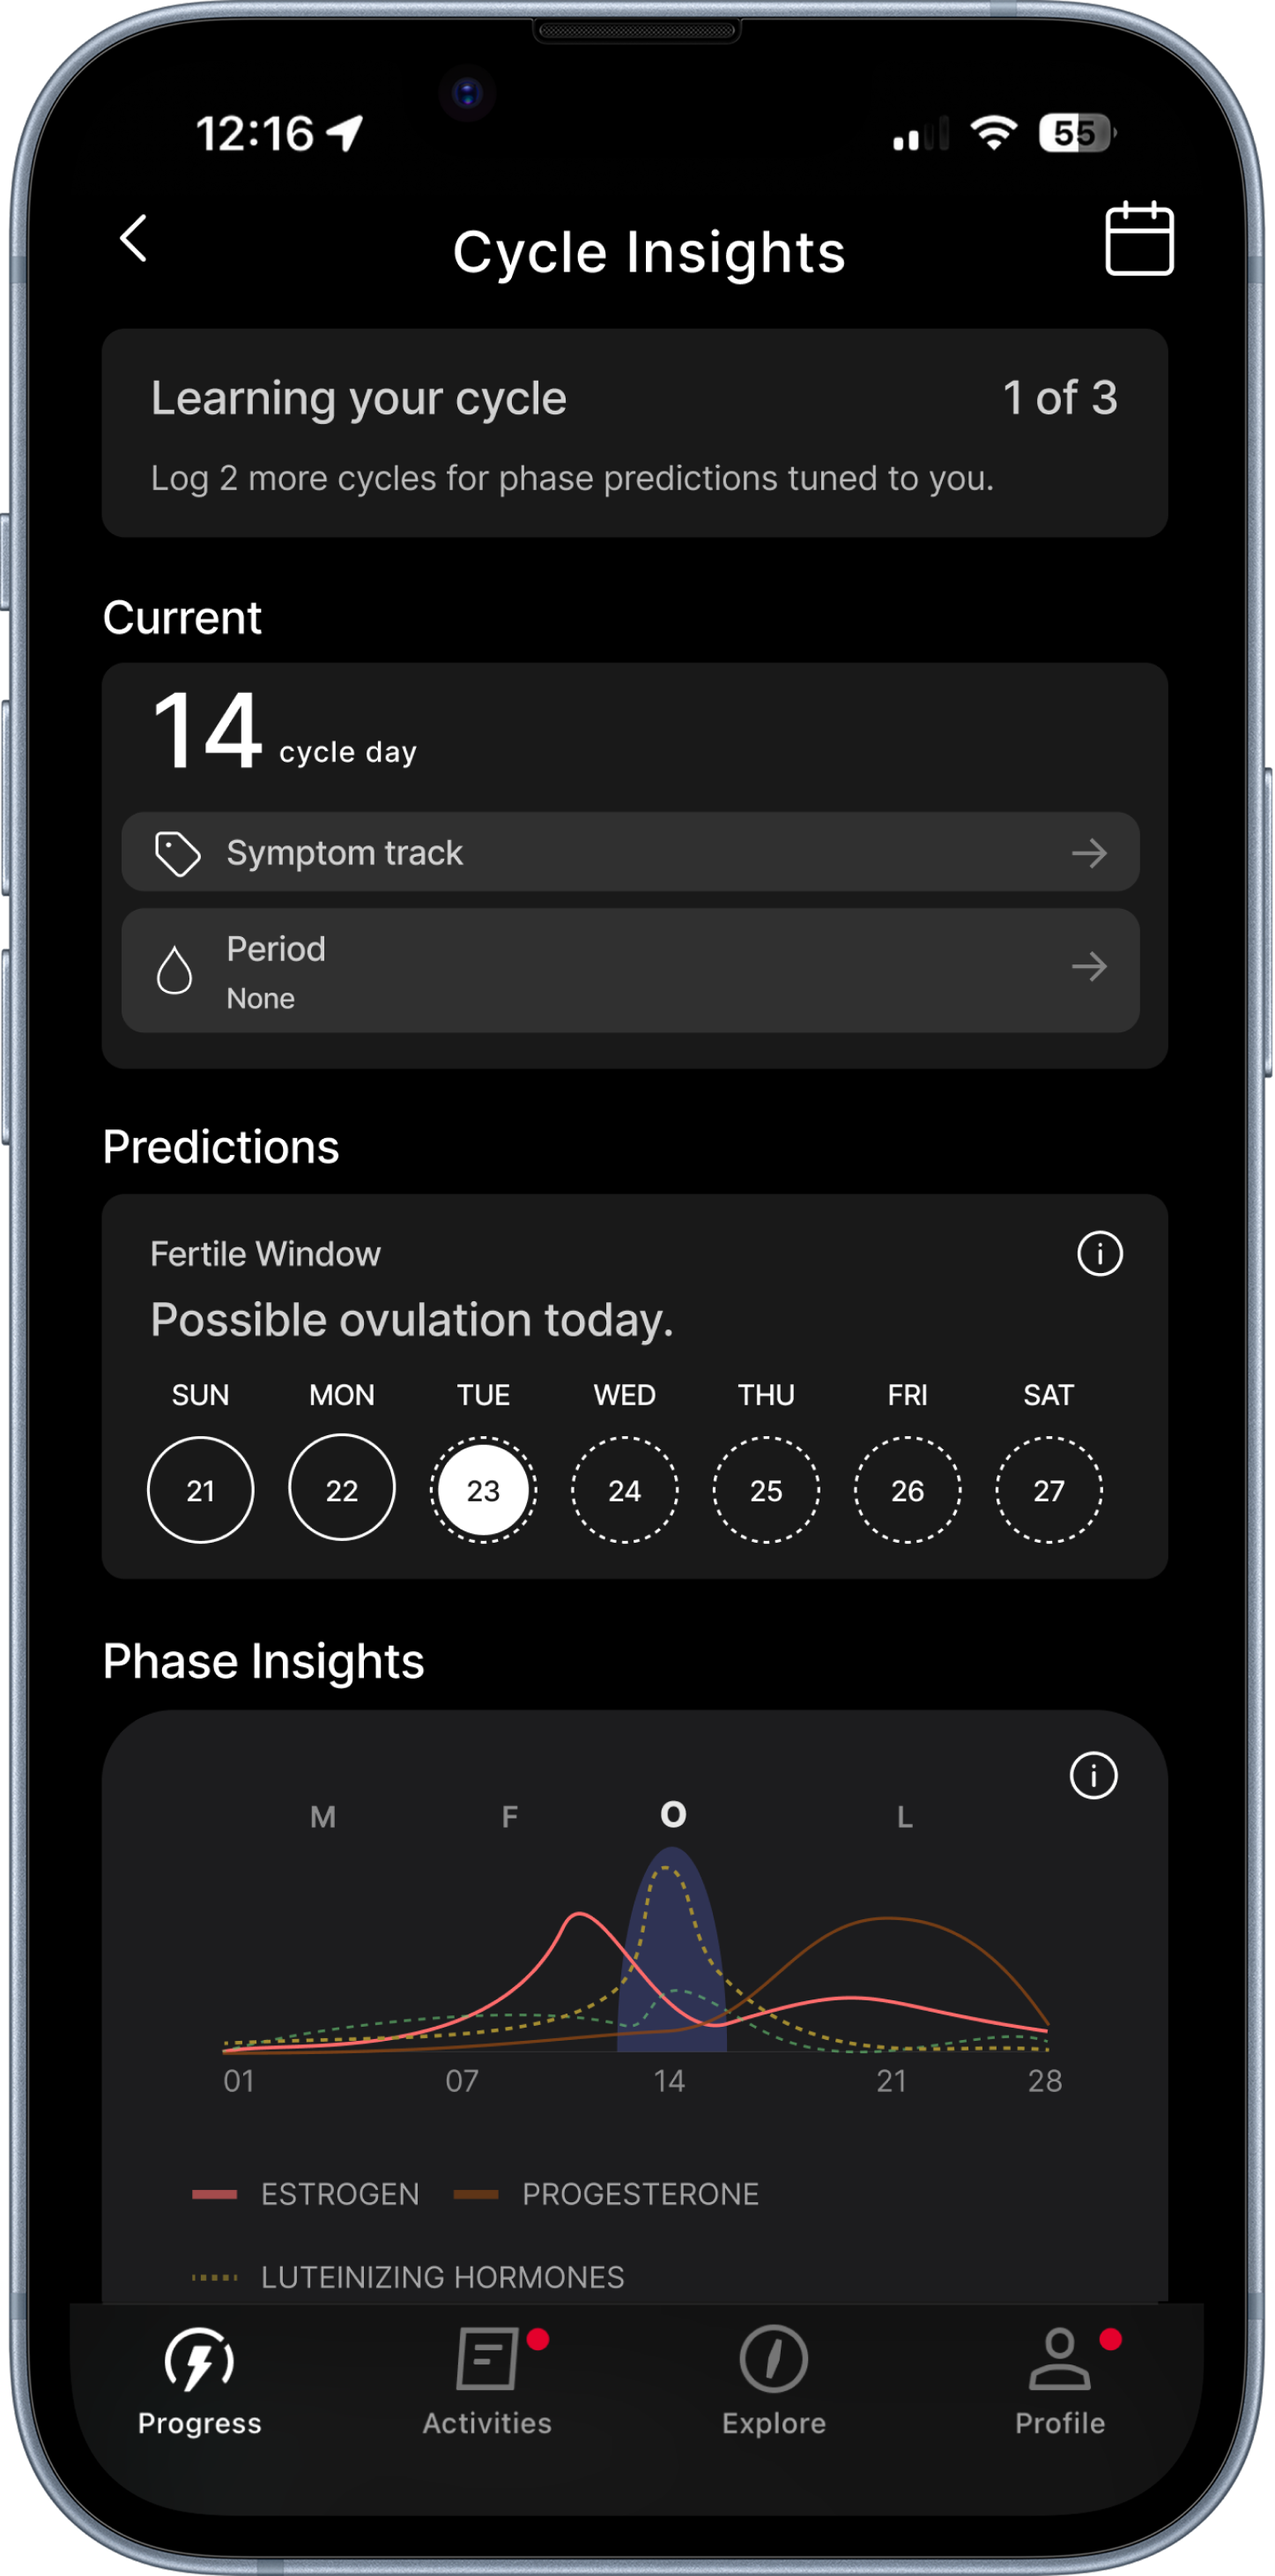
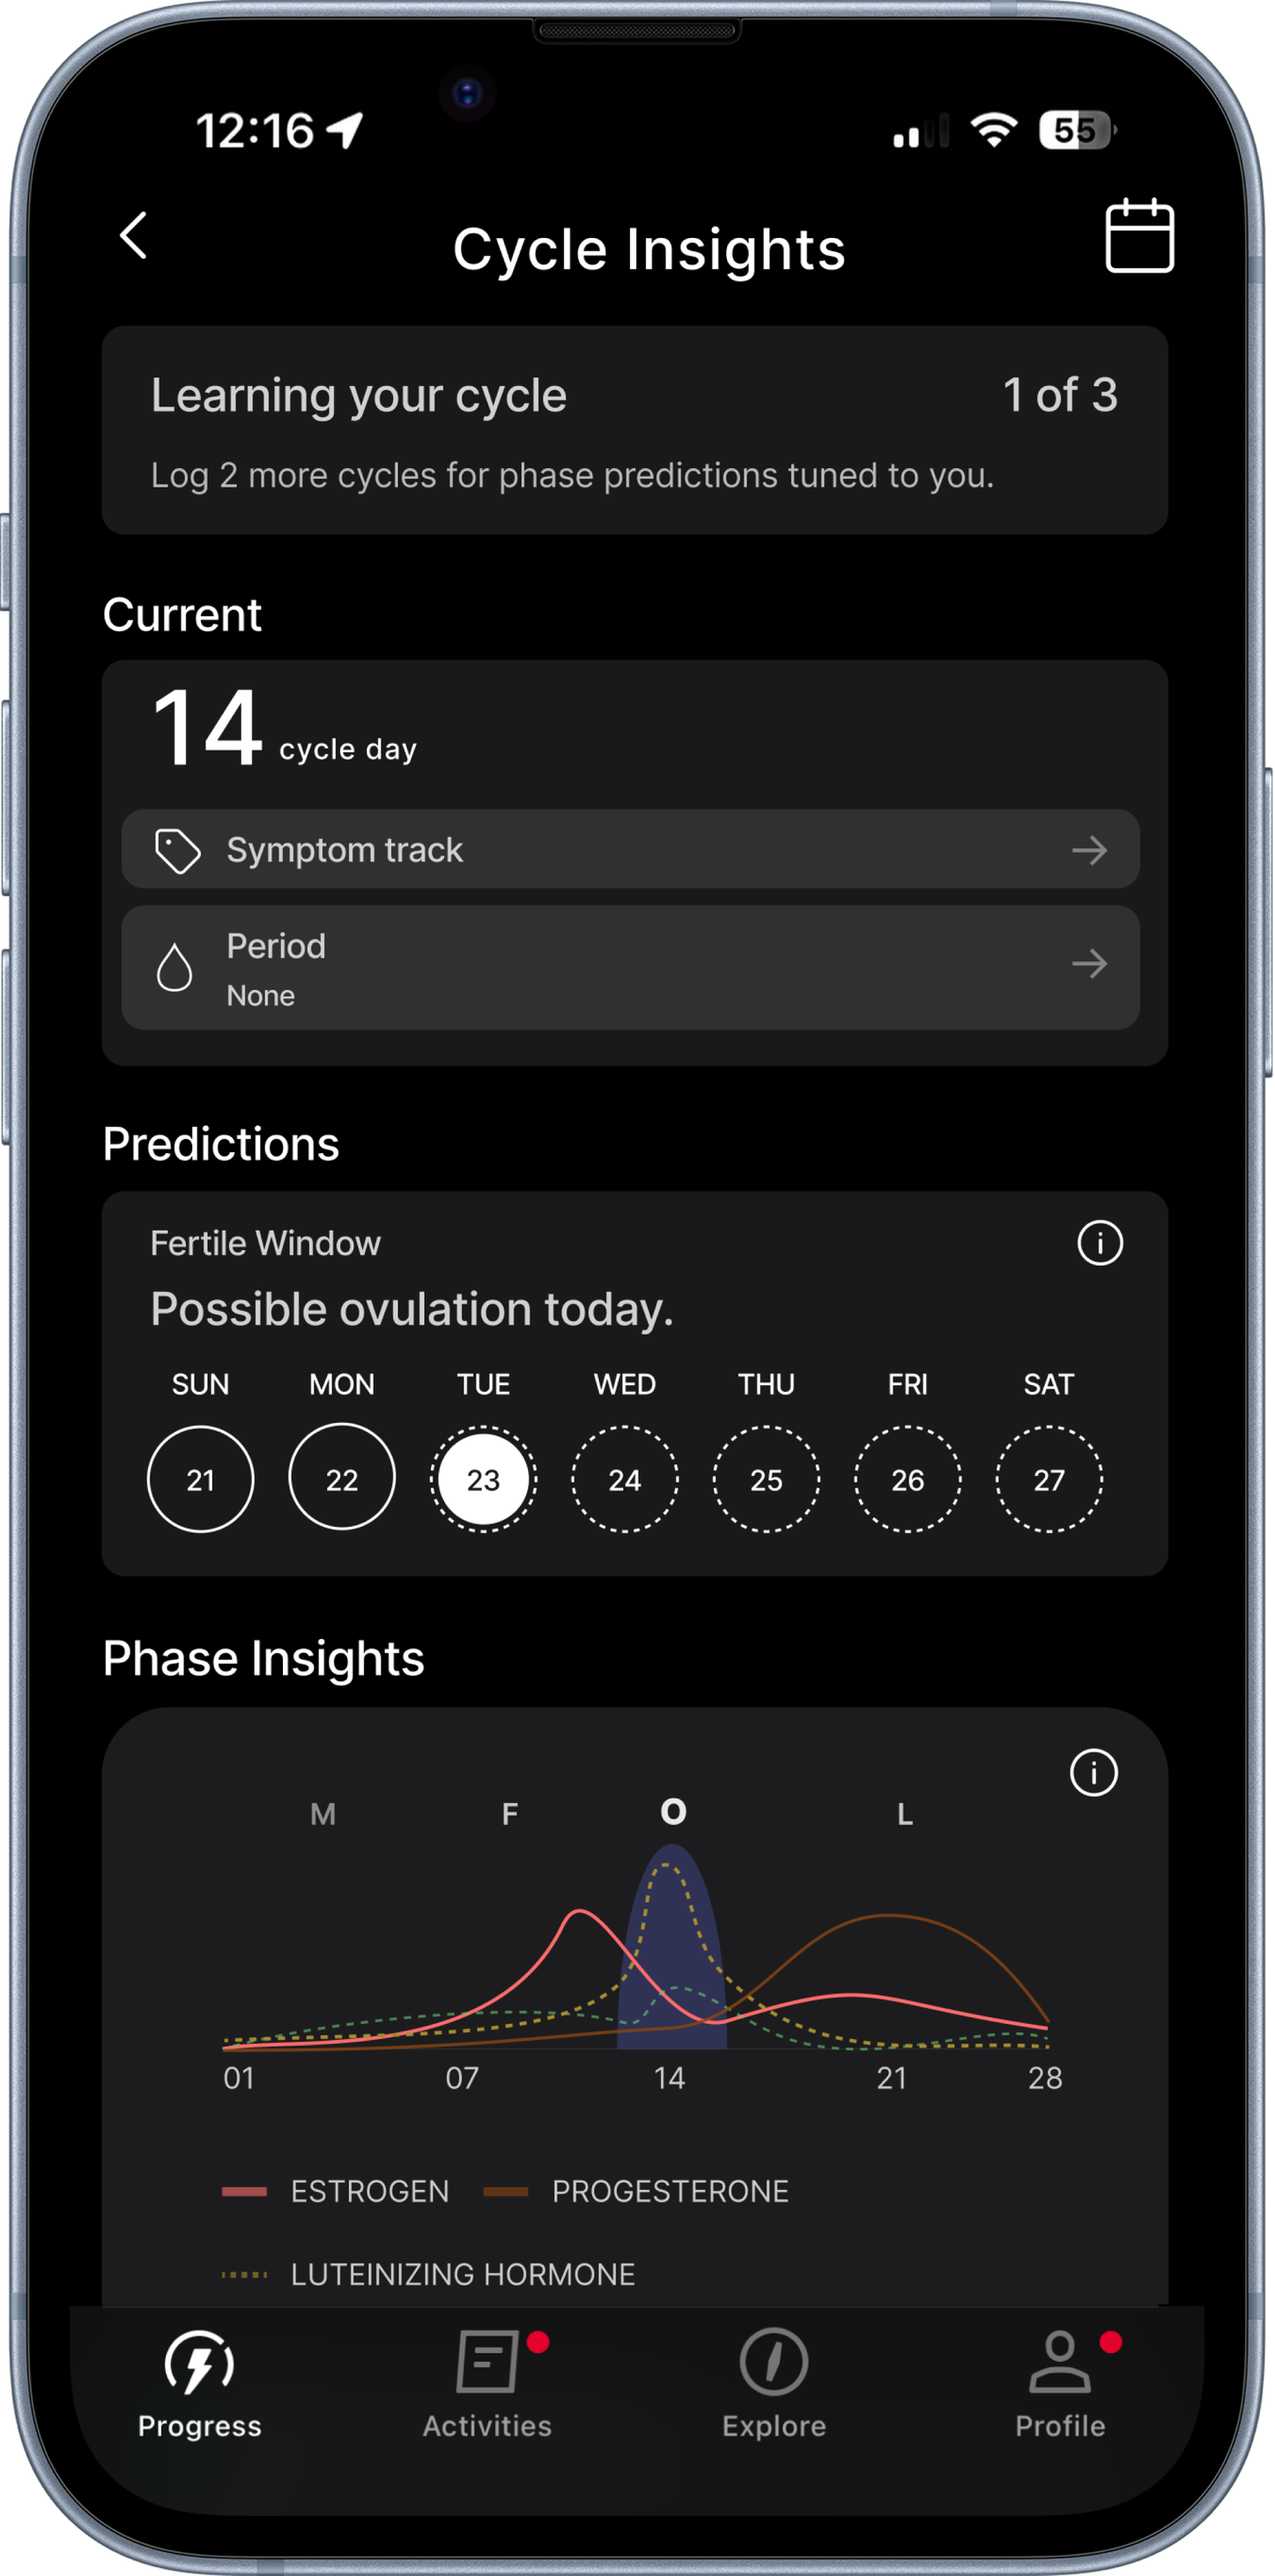
COROS: corrected Cycle/Phase Insights screens, iOS & Android in deliverables
Re-exported Iphone 14 - 2 and 3 with the singular "Luteinizing Hormone"
legend. Deliverables now read "iOS & Android app UI, watch UI".

Claude-Session: https://claude.ai/code/session_016cRBuG22eNH8urAxwUSLUh

diff --git a/coros.html b/coros.html
@@ -128,7 +128,7 @@
           <div><dt>Duration</dt><dd>12 Weeks</dd></div>
           <div><dt>Tools</dt><dd>Figma, Miro</dd></div>
           <div class="half"><dt>Methods</dt><dd>Service Design, Competitive Audit, Prototyping</dd></div>
-          <div class="half"><dt>Deliverables</dt><dd>Service blueprints, competitive audit, phone &amp; watch UI, clickable prototype</dd></div>
+          <div class="half"><dt>Deliverables</dt><dd>Service blueprints, competitive audit, iOS &amp; Android app UI, watch UI, clickable prototype</dd></div>
         </dl>
       </section>
 
